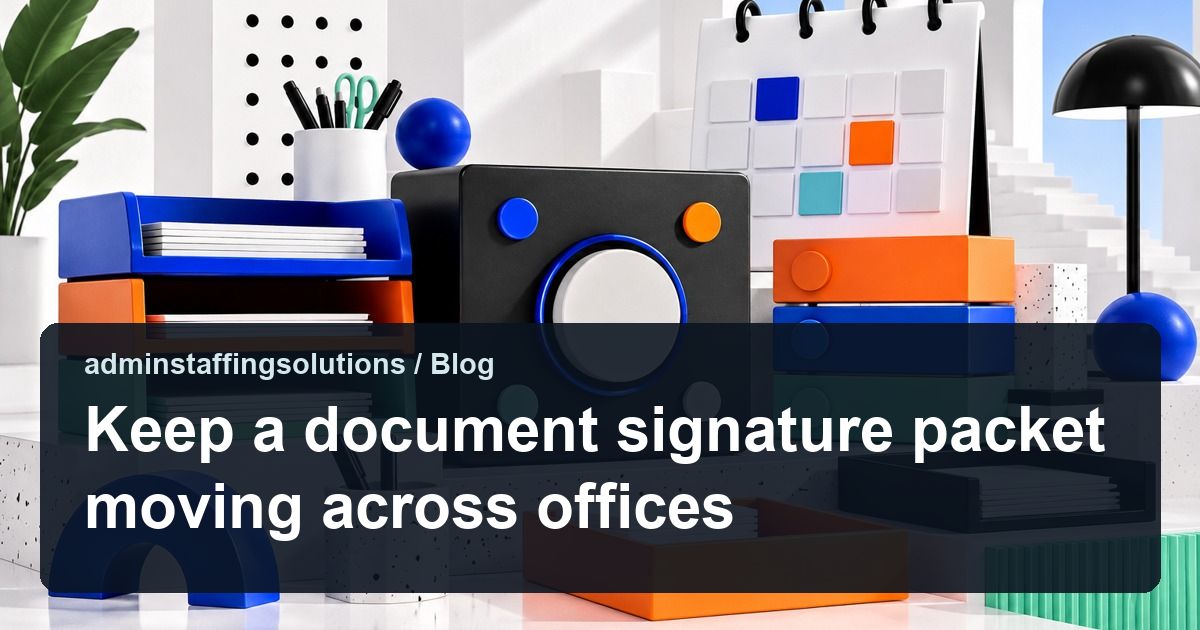
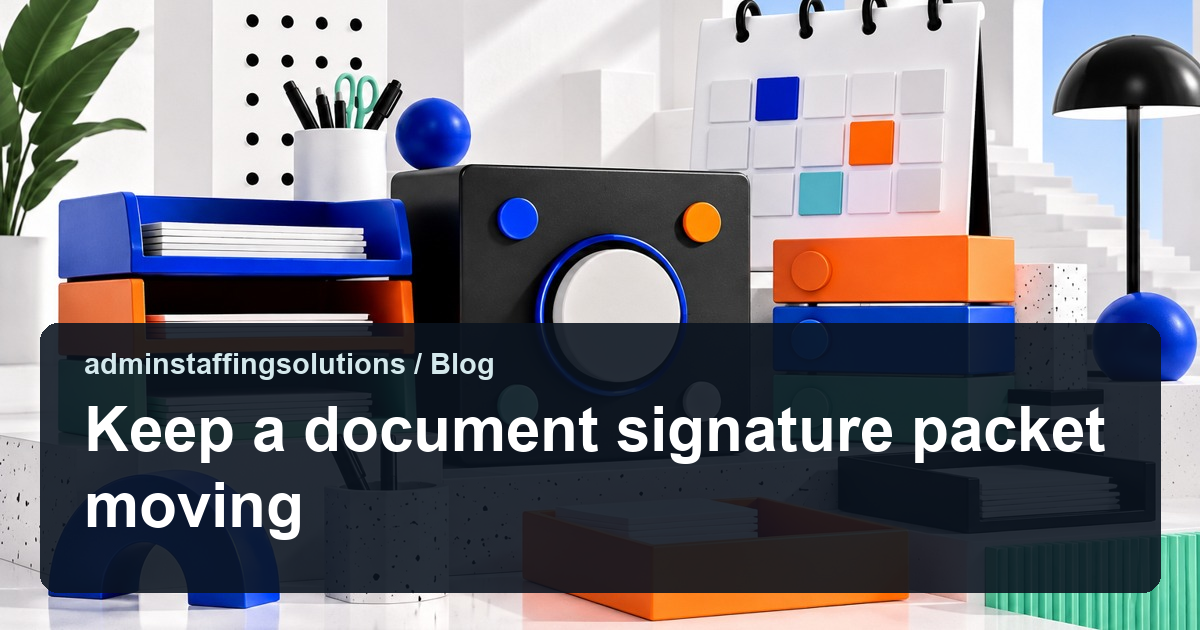
fix: align November 4 title with its URL

Changed region(s): [[0.2158, 0.754, 0.6167, 0.8444], [0.0925, 0.7841, 0.185, 0.8444]]

diff --git a/lib/november04-blog.ts b/lib/november04-blog.ts
@@ -93,7 +93,7 @@ export const november04BlogPosts: BlogPost[] = [
   },
   {
     "slug": "adminstaffingsolutions-keep-a-document-signature-packet-moving",
-    "title": "Keep a document signature packet moving across offices",
+    "title": "Keep a document signature packet moving",
     "description": "A bounded administrative staffing guide to signature packet routing, with explicit evidence, decision rights, and a verified close.",
     "category": "Document coordination",
     "publishedAt": "2026-11-04",
